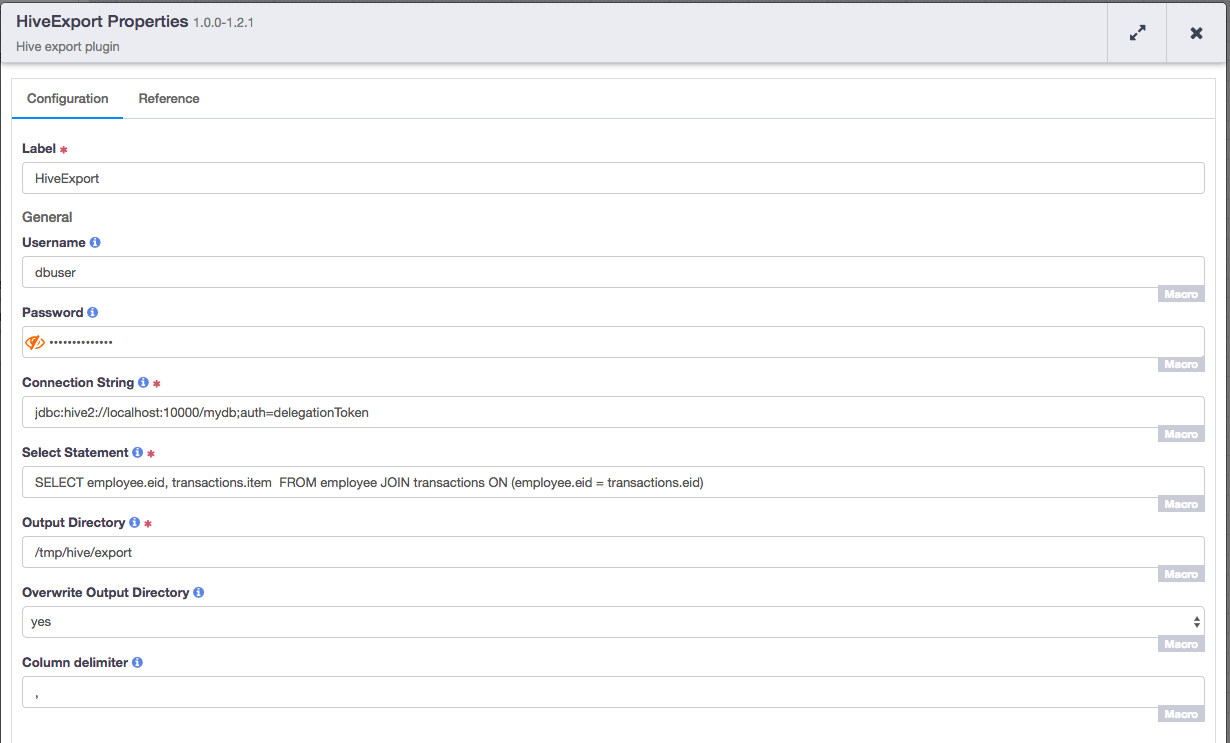
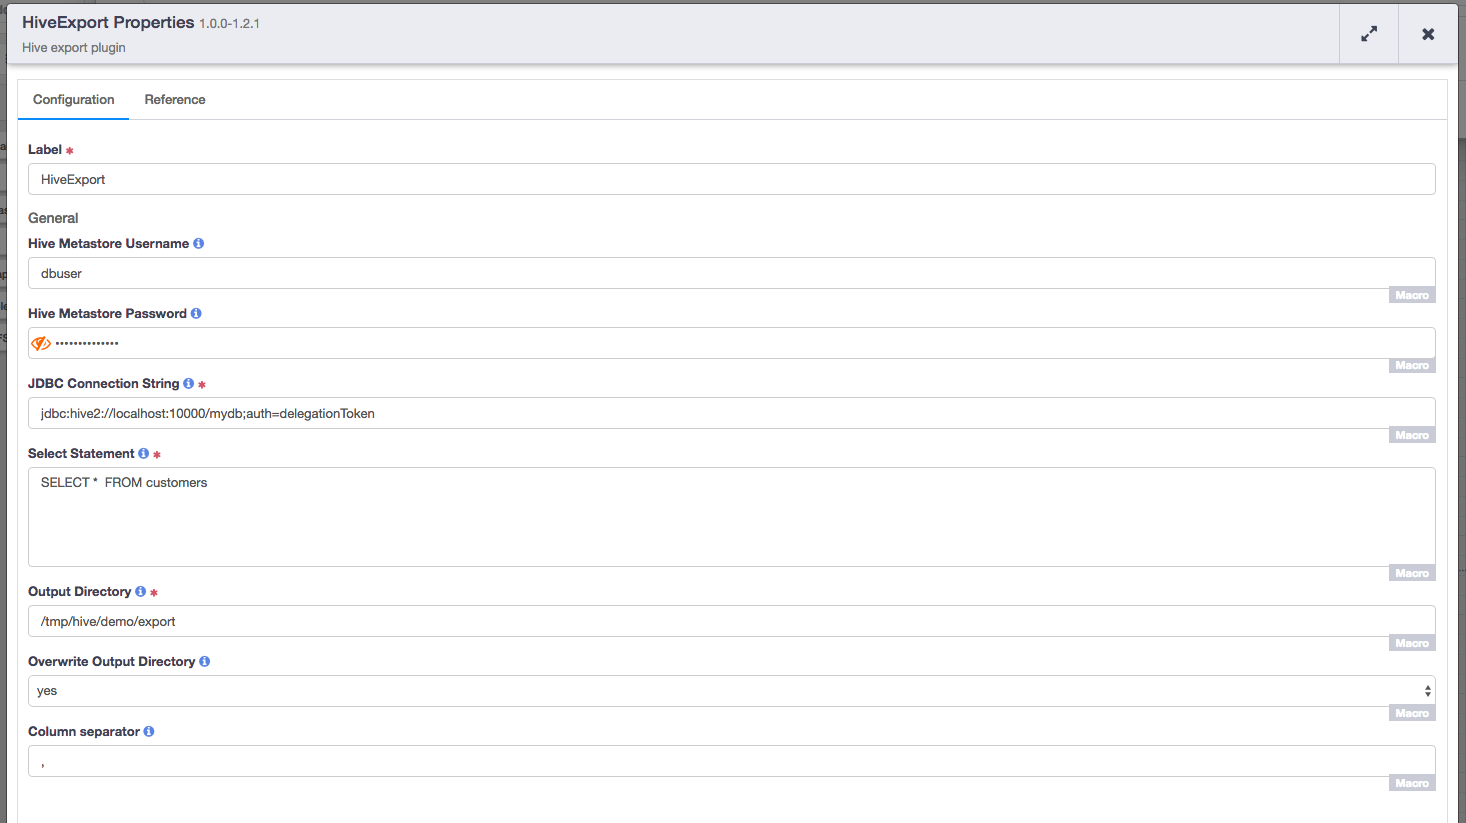
Changes to json

Changed region(s): [[0.0, 0.0, 1.0, 1.0]]

diff --git a/src/main/java/co/cask/hydrator/plugin/hive/action/common/HiveConfig.java b/src/main/java/co/cask/hydrator/plugin/hive/action/common/HiveConfig.java
@@ -39,24 +39,23 @@ public class HiveConfig extends PluginConfig {
   public String connectionString;
 
   @Name(USER)
-  @Description("User to use to connect to the specified database. Required for databases that " +
-    "need authentication. Optional for databases that do not require authentication.")
+  @Description("User to use to connect to hive metastore database. " +
+    "Optional for databases that do not require authentication.")
   @Nullable
   @Macro
   public String user;
 
   @Name(PASSWORD)
-  @Description("Password to use to connect to the specified database. Required for databases that " +
-    "need authentication. Optional for databases that do not require authentication.")
+  @Description("Password to use to connect to hive metastore database. " +
+    "Optional for databases that do not require authentication.")
   @Nullable
   @Macro
   public String password;
 
   @Name(STATEMENT)
-  @Description("Command to execute on hive")
+  @Description("Hive command to execute")
   @Macro
   public String statement;
-
 
   public HiveConfig(String connectionString, String user, String password, String statement) {
     this.connectionString = connectionString;
